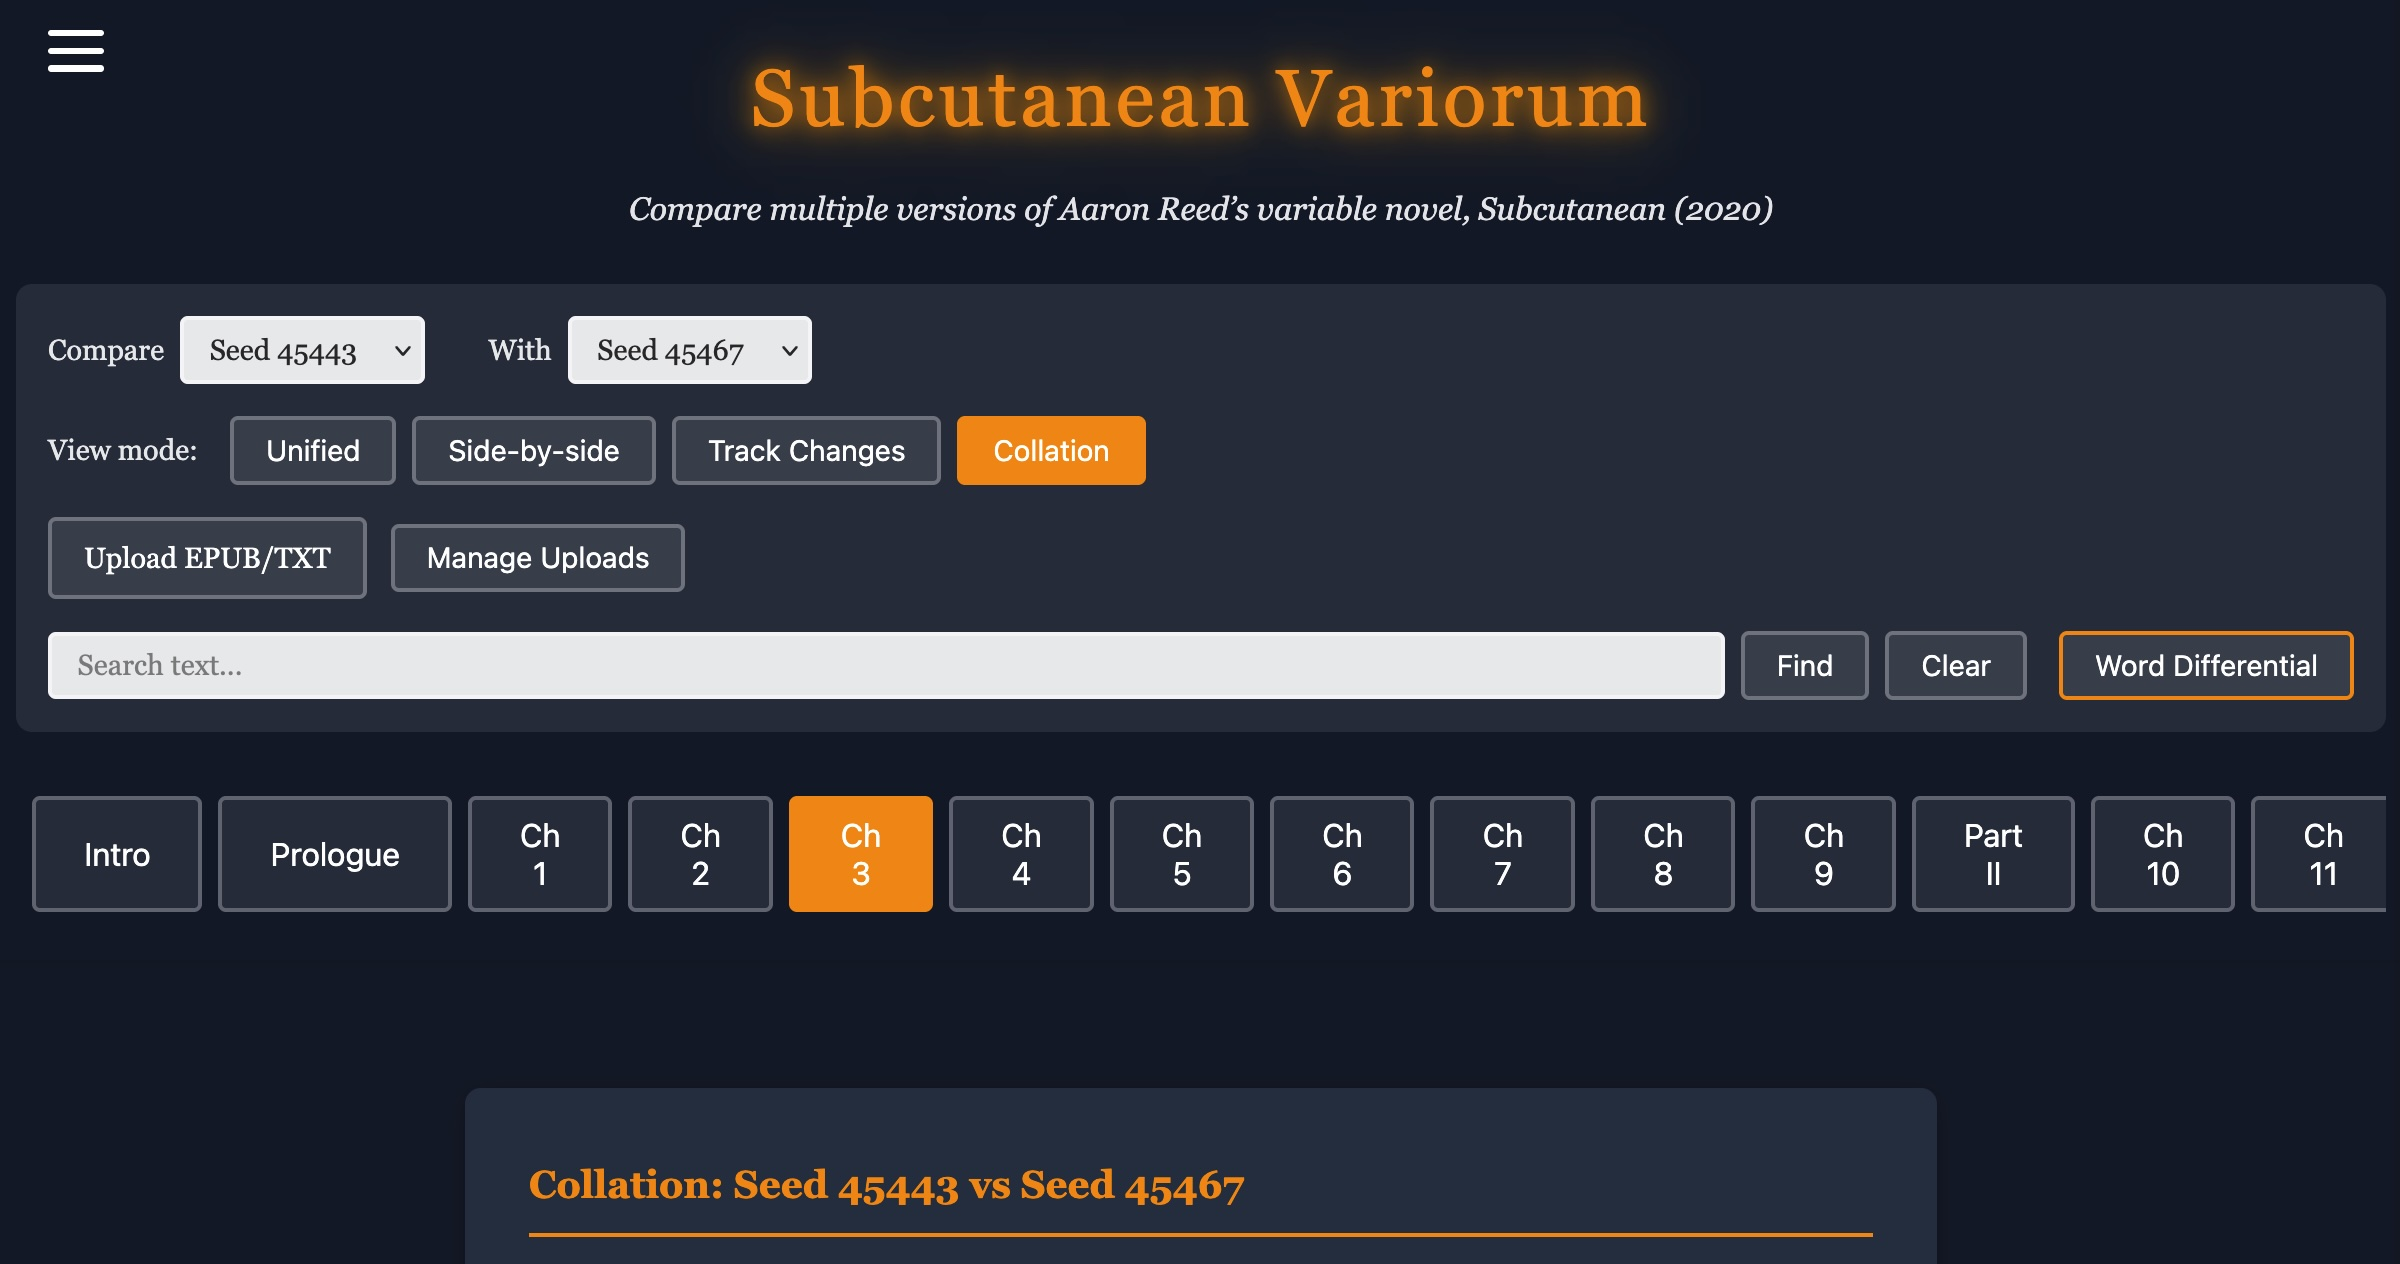
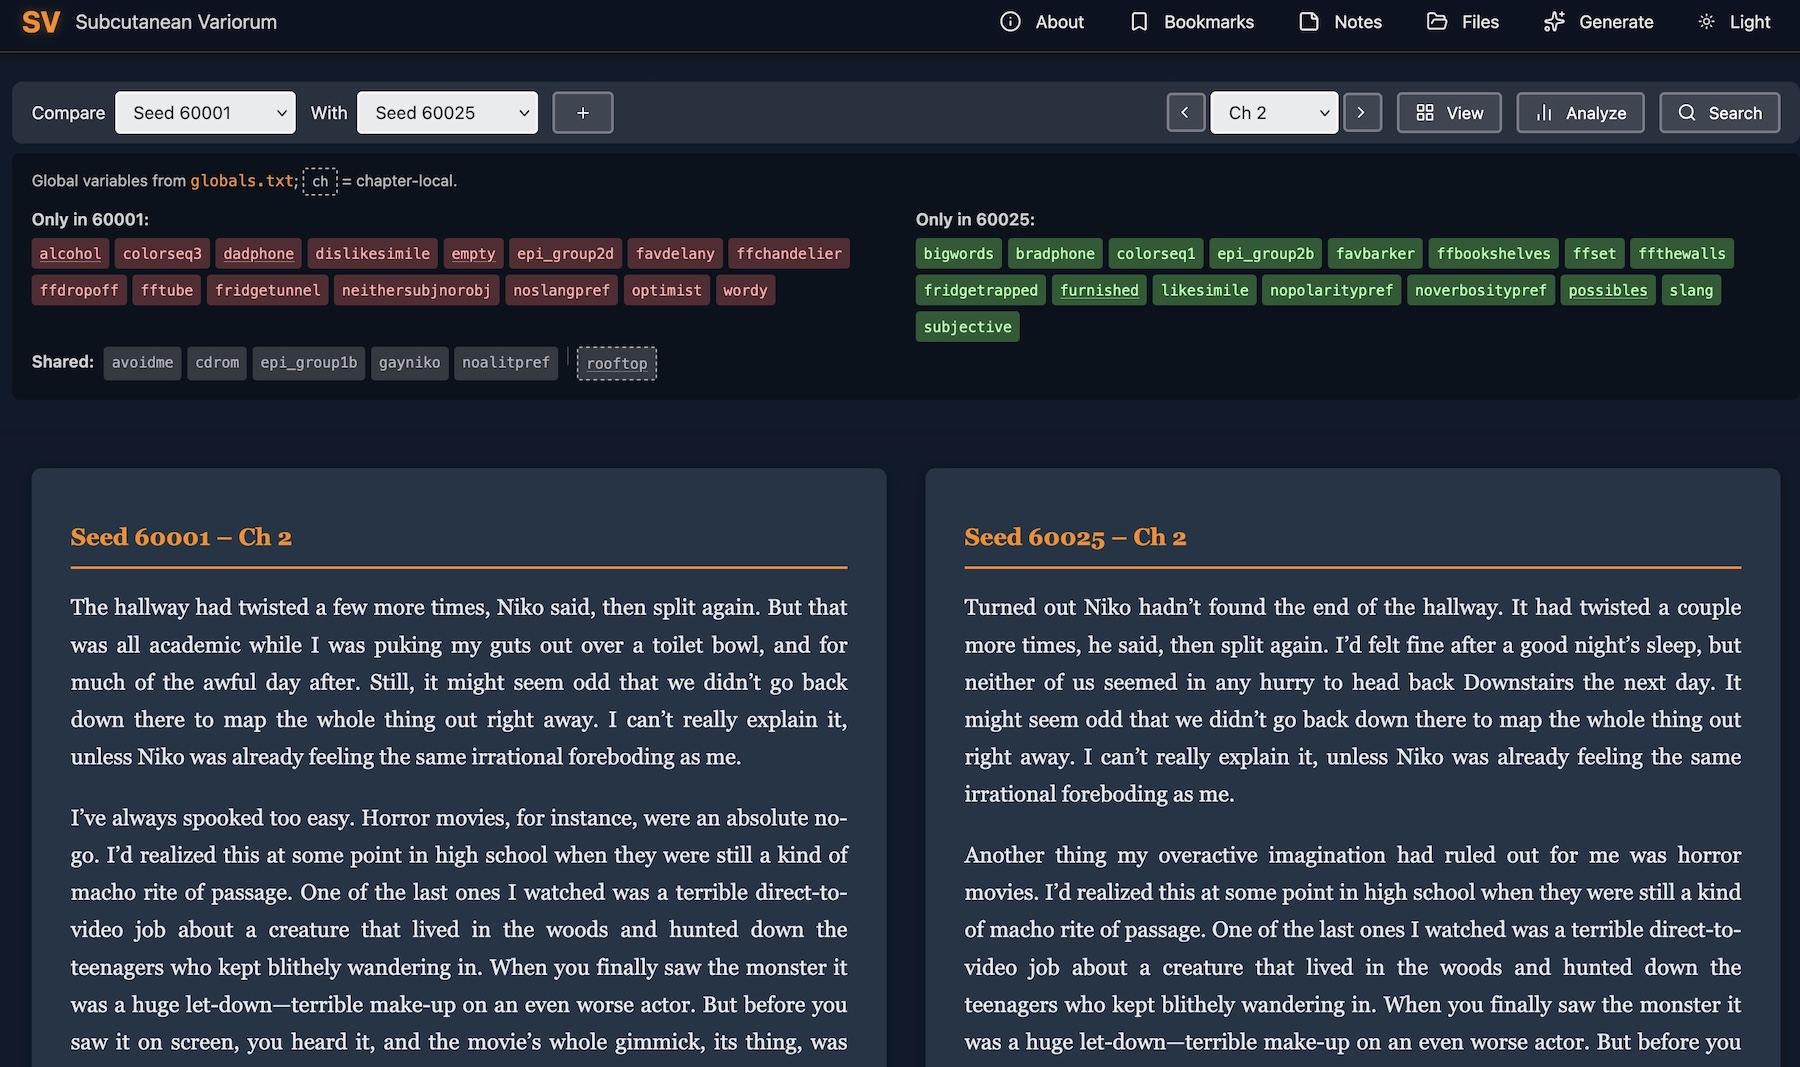
editing pathways descriptions

diff --git a/docs/index.html b/docs/index.html
@@ -3,8 +3,8 @@
 <head>
     <meta charset="UTF-8">
     <meta name="viewport" content="width=device-width, initial-scale=1.0">
-    <title>Subcutanean Variorum - Compare Textual Variations</title>
-    <meta name="description" content="Compare textual variations across unique editions of Aaron Reed's novel Subcutanean. Features four view modes, word differential analysis, and support for custom uploads.">
+    <title>Subcutanean Variorum</title>
+    <meta name="description" content="Compare textual variations across unique editions of Aaron Reed's novel Subcutanean. Features multiple view modes, word differential analysis, variable tracking, and support for custom uploads.">
     <link rel="canonical" href="https://subcutanean.fugitivetexts.net/">
 
     <!-- Open Graph / Social Media -->
@@ -13,8 +13,8 @@
     <meta property="og:title" content="Subcutanean Variorum">
     <meta property="og:description" content="Compare textual variations across unique editions of Aaron Reed's novel Subcutanean.">
     <meta property="og:image" content="https://subcutanean.fugitivetexts.net/og-image.jpg">
-    <meta property="og:image:width" content="1200">
-    <meta property="og:image:height" content="630">
+    <meta property="og:image:width" content="1800">
+    <meta property="og:image:height" content="1067">
     <meta property="og:image:alt" content="Subcutanean Variorum - Compare textual variations across unique editions">
 
     <!-- Twitter Card -->

diff --git a/docs/pathways.html b/docs/pathways.html
@@ -451,7 +451,7 @@ const PATHWAY_SIGNALS = {
 
 // Short narrative framing for each group column header
 const GROUP_DESCRIPTIONS = {
-  intro:      "How do Ryan and Niko reconnect?",
+  intro:      "What's our first glimpse of Niko and Ryan?",
   phone:      "Who does Ryan's mom ask about?",
   rooms:      "What fills the underground rooms?",
   fridge:     "What happens at the fridge?",
@@ -1104,11 +1104,11 @@ const TOUR_STEPS = [
     nodeIndex: -1
   },
   {
-    label: 'Chapter 1 Intro',
-    narrative: `The story begins. In Seed 60001, Ryan and Niko reconnect at
-      <strong>a club</strong> \u2014 a reluctant night out that sets the tone.
-      About 38% of all copies start this way. Others open on a back porch
-      or over a pot of ramen.`,
+    label: 'Opening Interaction',
+    narrative: `The story begins. In Seed 60001, Ryan and Niko party at
+      <strong>a club</strong>\u2014a reluctant night out that sets the tone.
+      About 38% of all copies start this way. Others open with Ryan on the back porch
+      or Ryan making ramen.`,
     nodeIndex: 0
   },
   {
